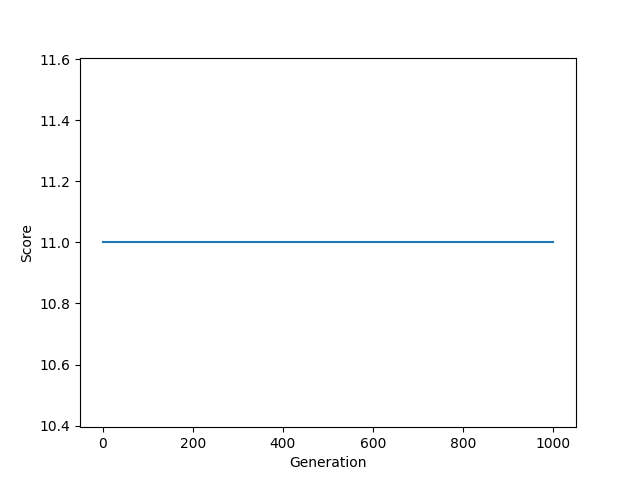
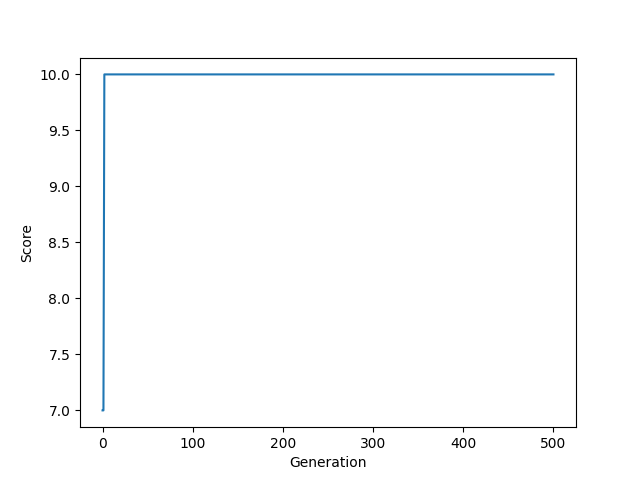
final local

diff --git a/local.py b/local.py
@@ -39,9 +39,10 @@ class Agent(BaseAgent):
             progress = []
             
             progress.append(func.rankRoutes(initialPopulation, turn_data.turns_left , turn_data.agent_data[0].position , problem)[0][1])
-            for i in range(0, 1000):
-                initialPopulation = func.nextGeneration(initialPopulation, 20, 0.005 , turn_data.turns_left , turn_data.agent_data[0].position , problem)
-                generationScore = func.rankRoutes(initialPopulation, turn_data.turns_left , turn_data.agent_data[0].position , problem)[0][1]
+            for i in range(0, 500):
+                initialPopulation = func.nextGeneration(initialPopulation, 20, 0.05 , turn_data.turns_left , turn_data.agent_data[0].position , problem)
+                generationScoreList = func.rankRoutes(initialPopulation, turn_data.turns_left , turn_data.agent_data[0].position , problem)
+                generationScore = generationScoreList[0][1]
                 progress.append(generationScore)
 
             routeIndex = func.rankRoutes(initialPopulation, turn_data.turns_left , turn_data.agent_data[0].position , problem)[0][0]
@@ -49,11 +50,11 @@ class Agent(BaseAgent):
             #print(route)
             self.result = self.get_seq(route , turn_data.agent_data[0].position , problem) 
             #print(rs)
-            #plt.plot(progress)
-            #plt.ylabel('Score')
-            #plt.xlabel('Generation')
+            plt.plot(progress)
+            plt.ylabel('Score')
+            plt.xlabel('Generation')
             #plt.show()
-            #plt.savefig('test_image.png')
+            plt.savefig('test_image.png')
 
         return self.result.pop(0) 
 
